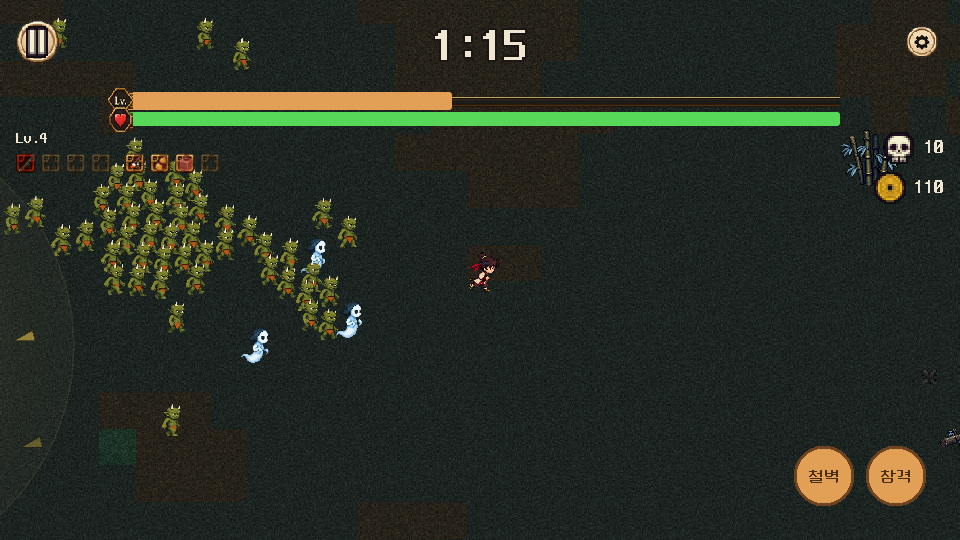
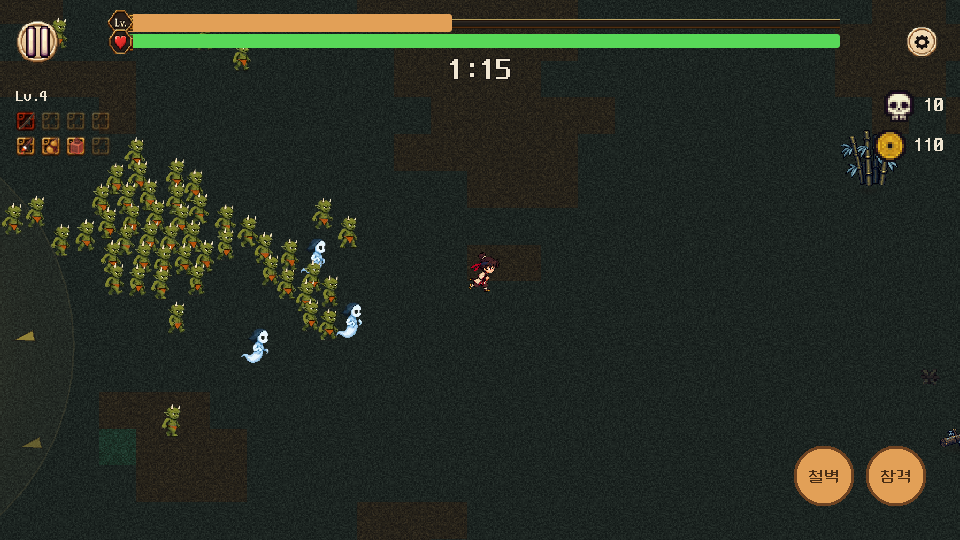
feat(ui): the landscape HUD stops fighting itself (B0-1b)
Owner, on landscape: weapons on one line and passives under them, a smaller
clock, xp and hp at the top, and the pause mark taken from the new chrome.

The belongings row splits in two in landscape and stays one line in portrait,
where height is the scarce axis rather than width. A rotation re-splits it
without the stage pushing the build again, since the last push is held. Runs
moved inside line containers, so callers now ask for them by name through
belongings_run() instead of by path.

The clock drops from 48 to 32. It was sized when it had the top band to itself
and now shares it with the bars and the belongings row, where it read as the
subject of the screen.

Landscape leads with the bars and puts the clock under them; the viewport is
only 540 tall there and the band has to earn every pixel. Portrait keeps the
clock on top — the wide empty strip above the bars is already its own, and
shuffling it gains nothing. The whole band is now stacked from one cursor
rather than fixed offsets, so moving one thing moves what follows instead of
leaving a hole or an overlap.

slice_hud_icons.py cuts the owner's hud_all sheet (a real 3x2 grid of 512px
cells, unlike the chrome kit) into hud/build. Nothing writes to the drop. Only
names listed in HUD_BUILD_PIECES switch over, and that is just "pause" for now:
the owner asked for that one, and this project has already found an HD remake
reading worse than the old glyph at HUD size. All six were rendered side by side
[…]

diff --git a/asset/ui/slice_hud_icons.py b/asset/ui/slice_hud_icons.py
@@ -1,0 +1,99 @@
+"""Cut the owner's HUD icon sheet into named icons.
+
+The owner drew the six HUD glyphs on one sheet — coin, skull, hourglass, info,
+pause, gear — on a clean 3x2 grid of 512px cells. Unlike the chrome kit this one
+IS a grid, so the cells are taken as declared and only the drawing inside each
+is found by its own alpha. Guessing a grid is what cut subjects in half on every
+earlier sheet; declaring one that is actually there is not the same gamble.
+
+Output matches the existing HUD icons: 256px square, which the HUD draws at 32
+(16 logical px at the project's x16 export scale).
+
+`hud_all.png` is an owner drop and no tool may write to it — an earlier bake
+saved over the drops it read and cost the owner a re-download of every sheet.
+Everything lands in `hud/build/`.
+
+Run: python asset/ui/slice_hud_icons.py [--dry-run]
+"""
+
+import sys
+from pathlib import Path
+
+import numpy as np
+from PIL import Image
+
+ROOT = Path(__file__).resolve().parents[2]
+SHEET = ROOT / "asset" / "ui" / "hud" / "hud_all.png"
+OUT = ROOT / "asset" / "ui" / "hud" / "build"
+
+COLUMNS = 3
+ROWS = 2
+ALPHA_FLOOR = 24
+## Match the existing hud icons so display sizes and call sites are unchanged.
+EXPORT_PX = 256
+## Reading order, left to right then top to bottom.
+NAMES = [
+    "coin", "skull", "timer",
+    "info", "pause", "settings",
+]
+
+
+def cell_bbox(alpha):
+    """Tight bounds of the drawing inside one cell, or None when it is empty."""
+    lit = alpha > ALPHA_FLOOR
+    rows = np.where(lit.any(axis=1))[0]
+    cols = np.where(lit.any(axis=0))[0]
+    if not len(rows) or not len(cols):
+        return None
+    return cols[0], rows[0], cols[-1] + 1, rows[-1] + 1
+
+
+def square(image):
+    """Centre the drawing on a transparent square so nothing is stretched.
+
+    Icons sit beside each other in the HUD, and a glyph resized from a
+    non-square crop comes out wider or taller than its neighbours even though
+    every file is the same size.
+    """
+    side = max(image.width, image.height)
+    canvas = Image.new("RGBA", (side, side), (0, 0, 0, 0))
+    canvas.paste(image, ((side - image.width) // 2, (side - image.height) // 2))
+    return canvas
+
+
+def main():
+    dry_run = "--dry-run" in sys.argv
+    if not SHEET.exists():
+        raise SystemExit(f"sheet not found: {SHEET}")
+    sheet = Image.open(SHEET).convert("RGBA")
+    if sheet.width % COLUMNS or sheet.height % ROWS:
+        raise SystemExit(
+            f"{sheet.width}x{sheet.height} is not a whole {COLUMNS}x{ROWS} grid"
+        )
+    cell_w = sheet.width // COLUMNS
+    cell_h = sheet.height // ROWS
+    alpha = np.array(sheet.getchannel("A"))
+    if not dry_run:
+        OUT.mkdir(parents=True, exist_ok=True)
+    written = 0
+    for index, name in enumerate(NAMES):
+        col, row = index % COLUMNS, index // COLUMNS
+        x0, y0 = col * cell_w, row * cell_h
+        box = cell_bbox(alpha[y0:y0 + cell_h, x0:x0 + cell_w])
+        if box is None:
+            raise SystemExit(f"cell {row},{col} ({name}) is empty — grid is wrong")
+        left, top, right, bottom = box
+        crop = sheet.crop((x0 + left, y0 + top, x0 + right, y0 + bottom))
+        icon = square(crop).resize((EXPORT_PX, EXPORT_PX), Image.LANCZOS)
+        print(f"  {name:10}{right - left}x{bottom - top} -> {EXPORT_PX}")
+        if not dry_run:
+            out_path = OUT / f"{name}.png"
+            if out_path.resolve() == SHEET.resolve():
+                raise SystemExit("refusing to write onto the owner's sheet")
+            icon.save(out_path)
+        written += 1
+    print(f"{written} icons -> {OUT.relative_to(ROOT)}")
+
+
+if __name__ == "__main__":
+    main()

diff --git a/TASKS.md b/TASKS.md
@@ -228,6 +228,7 @@ Halls of Torment(능력/특성 분리).
 | # | 작업 | 메모 |
 |---|---|---|
 | B0-1 | ~~**HUD 소지품 줄**~~ ✅ | 완료 (2026-08-27) — 무기 4 · 패시브 4 · 재료가 XP바 아래 한 줄로 상시 보인다. 빈 칸을 그리는 것이 요점 — "3/4"는 일시정지가 쥐고 있던 사실이고, 안 그리면 꽉 찬 빌드와 절반 빌드가 똑같이 보인다. 무기는 일시정지와 같은 등급 색 변조(N9-27/N10-15), 패시브·재료는 중첩 수. 재료는 `BELONGINGS_MATERIAL_MAX` 초과분을 `+N`으로 접어 슬롯이 밀려나지 않게 한다. N9-55 초과 패시브는 **클램프하지 않는다**(걸어가서 주운 것을 숨기게 된다). **배치 근거**: 가로는 뷰포트가 540인데 카운터 스택이 이미 y=202까지 내려와 있어, 아래에 밴드를 하나 더 두면 화면 중앙 부근에 걸린다. 그래서 레벨 라벨 아래 **좌측 여백**을 쓰고 폭을 카운터 앞에서 자른다(깊이 추가 0). 푸시 방식 — 빌드는 레벨업 픽·전리품·필드 패시브에서만 움직이므로 그 5곳에서만 `_refresh_belongings()`를 부른다. `_pause_build_summary`를 재사용해 줄과 일시정지가 서로 다른 말을 할 수 없다. **함정 2건, 캡처로 잡음**: (1) `_nine_slice`가 텍스처 마진만 걸고 내용 마진을 안 지워 셀이 선언 크기의 두 배로 부풀었고, 실제로 카운터 밑까지 뻗었다 — 공유 헬퍼를 고치면 게임 전체 패널이 리사이즈되므로 이 스타일 인스턴스에서만 `set_content_margin_all(0)`. (2) HBoxContainer는 자식을 최소 크기로 깔고 자기 상자를 태연히 넘긴다 — `clip_contents`로 폭 클램프를 실제 보장으로 만들었다. (3) `UiIcons.badge()` 신설 — 512px 원본을 22px에 NEAREST로 그리면 단색 블록이 된다(N9-55가 겪은 그 함정). (아이콘, 크기)당 1회 Lanczos 축소 후 캐시. **관문 점검**: `layout_sweep`은 `_boxes`에 **Button만** 수집해 이 계열 겹침을 못 잡는다 — 그래도 하네스가 빈 줄로 통과하던 것은 고쳤고(`_fill_belongings`가 최악 빌드를 채운다), 실제 관문은 유닛 테스트다. 클램프를 임시로 빼서 `test_row_never_reaches_under_the_counter_stack`·`test_cells_are_the_size_they_declare` 둘이 실제로 FAIL하는 것을 확인했다. 검증: 테스트 573개 중 신규 7개 통과, validate 18파일 PASS, layout_sweep PASS(12화면×11기기×2언어), 3직업 실런 ERROR 0, 캡처 captures/b0-1/(세로·가로·재료). **미해결 보고**: `test_enemy_sprite` 2건이 FAIL 상태인데 애셋 세션의 미커밋 `asset/monsters/dudueori/{idle,walk}.png` 때문이다 — 그 두 파일만 빼고 돌리면 566/566 PASS인 것을 확인했고, 이 커밋에는 포함하지 않았다 |
+| B0-1b | ~~**가로 HUD 재배치 + 새 일시정지 아이콘**~~ ✅ | 완료 (2026-08-27, 오너 지시 "어색한 부분이 가로모드일때 기술들을 무기 가로배치하고 그 밑으로 패시브 배치하게 바꾸고 시간이 너무 커 좀 줄이고 경험치, 체력이 상단으로 가고 왼쪽에 일시정지 표시는 새로운 UI chrome에 있어 일시정지가 그거 써") — 네 가지. (1) **가로는 소지품 줄을 두 줄로** 쪼갠다: 무기 한 줄, 패시브+재료 다음 줄. 세로는 한 줄 유지(세로는 높이가 귀한 축이다). 회전하면 스테이지가 다시 푸시하지 않아도 `_layout_belongings`가 다시 쪼갠다 — 마지막 빌드를 `_belongings_held`에 들고 있다. 노드 경로가 줄 안으로 내려가므로 호출부는 위치가 아니라 이름으로 찾는다(`belongings_run("Weapons")`). (2) **시계 48 → 32**(외곽선 8 → 5). 상단 밴드를 혼자 쓰던 시절 크기라 바·소지품과 나눠 쓰는 지금은 화면의 주어처럼 읽혔다. (3) **가로는 바가 맨 위, 시계가 그 아래**. 가로 뷰포트는 540밖에 안 되므로 밴드가 픽셀을 벌어야 한다. 세로는 시계가 위 그대로 — 바 위의 넓은 빈 띠는 이미 시계 것이라 옮겨서 얻는 게 없다. 상단 밴드 전체를 **고정 오프셋이 아니라 커서 하나로 쌓게** 바꿨다(`_layout_top_band`) — 하나를 옮기면 뒤가 따라 움직여 구멍도 겹침도 안 생긴다. (4) **일시정지 아이콘을 오너의 새 HUD 시트로**. `asset/ui/slice_hud_icons.py`가 `hud_all.png`(3×2 격자, 512셀)를 `hud/build/` 6장으로 자른다 — 오너 드롭엔 절대 쓰지 않는다. `HUD_BUILD_PIECES`에 올린 이름만 교체하며 지금은 `pause` 하나다: 오너가 그것만 지목했고, **이 프로젝트는 HD 리메이크가 HUD 크기에서 구판보다 나쁘게 읽히는 것을 이미 겪었다**. 실표시 32px로 구·신 6종을 나란히 렌더해 확인했고(captures/b0-1/icon_compare.png) 여섯 다 뭉개지지 않는다 — 나머지는 오너가 보고 말하면 이름만 추가하면 된다. 검증: 테스트 576개 중 신규 3개(가로 2줄 분할·회전 복귀, 방향별 상단 밴드 순서, 일시정지 아이콘 출처) 통과, validate PASS, layout_sweep PASS(12화면×11기기×2언어), 실런 ERROR 0, 캡처 세로·가로 갱신 |
 | B0-2 | **진화 표식 + 재료 공개** | 무기 Lv5 도달 + 진화 존재 시 슬롯에 표식 점등, 재료까지 있으면 점화. 카드에서 **필요 재료는 공개**하고 결과만 `???` 유지 |
 | B0-3 | **괴이록 진화 트리** | 미발견 빈칸까지 그려 남은 개수가 보이게. **본거지가 맵 형태로 바뀔 때 건물 안으로 옮겨갈 수 있는 형태로** 지을 것(아래 참고) |
 | B1-1 | **공통 적중 훅** | `AutoWeapon`·`Summon`·`Ward` 세 갈래 적중 처리를 단일 `on_hit(target, weapon, damage, crit)`으로. 기능 변화 0, 회귀 기준 dps 유지. **축 셋이 전부 여기 얹히므로 먼저 하지 않으면 같은 배선을 세 번 짓는다** |
